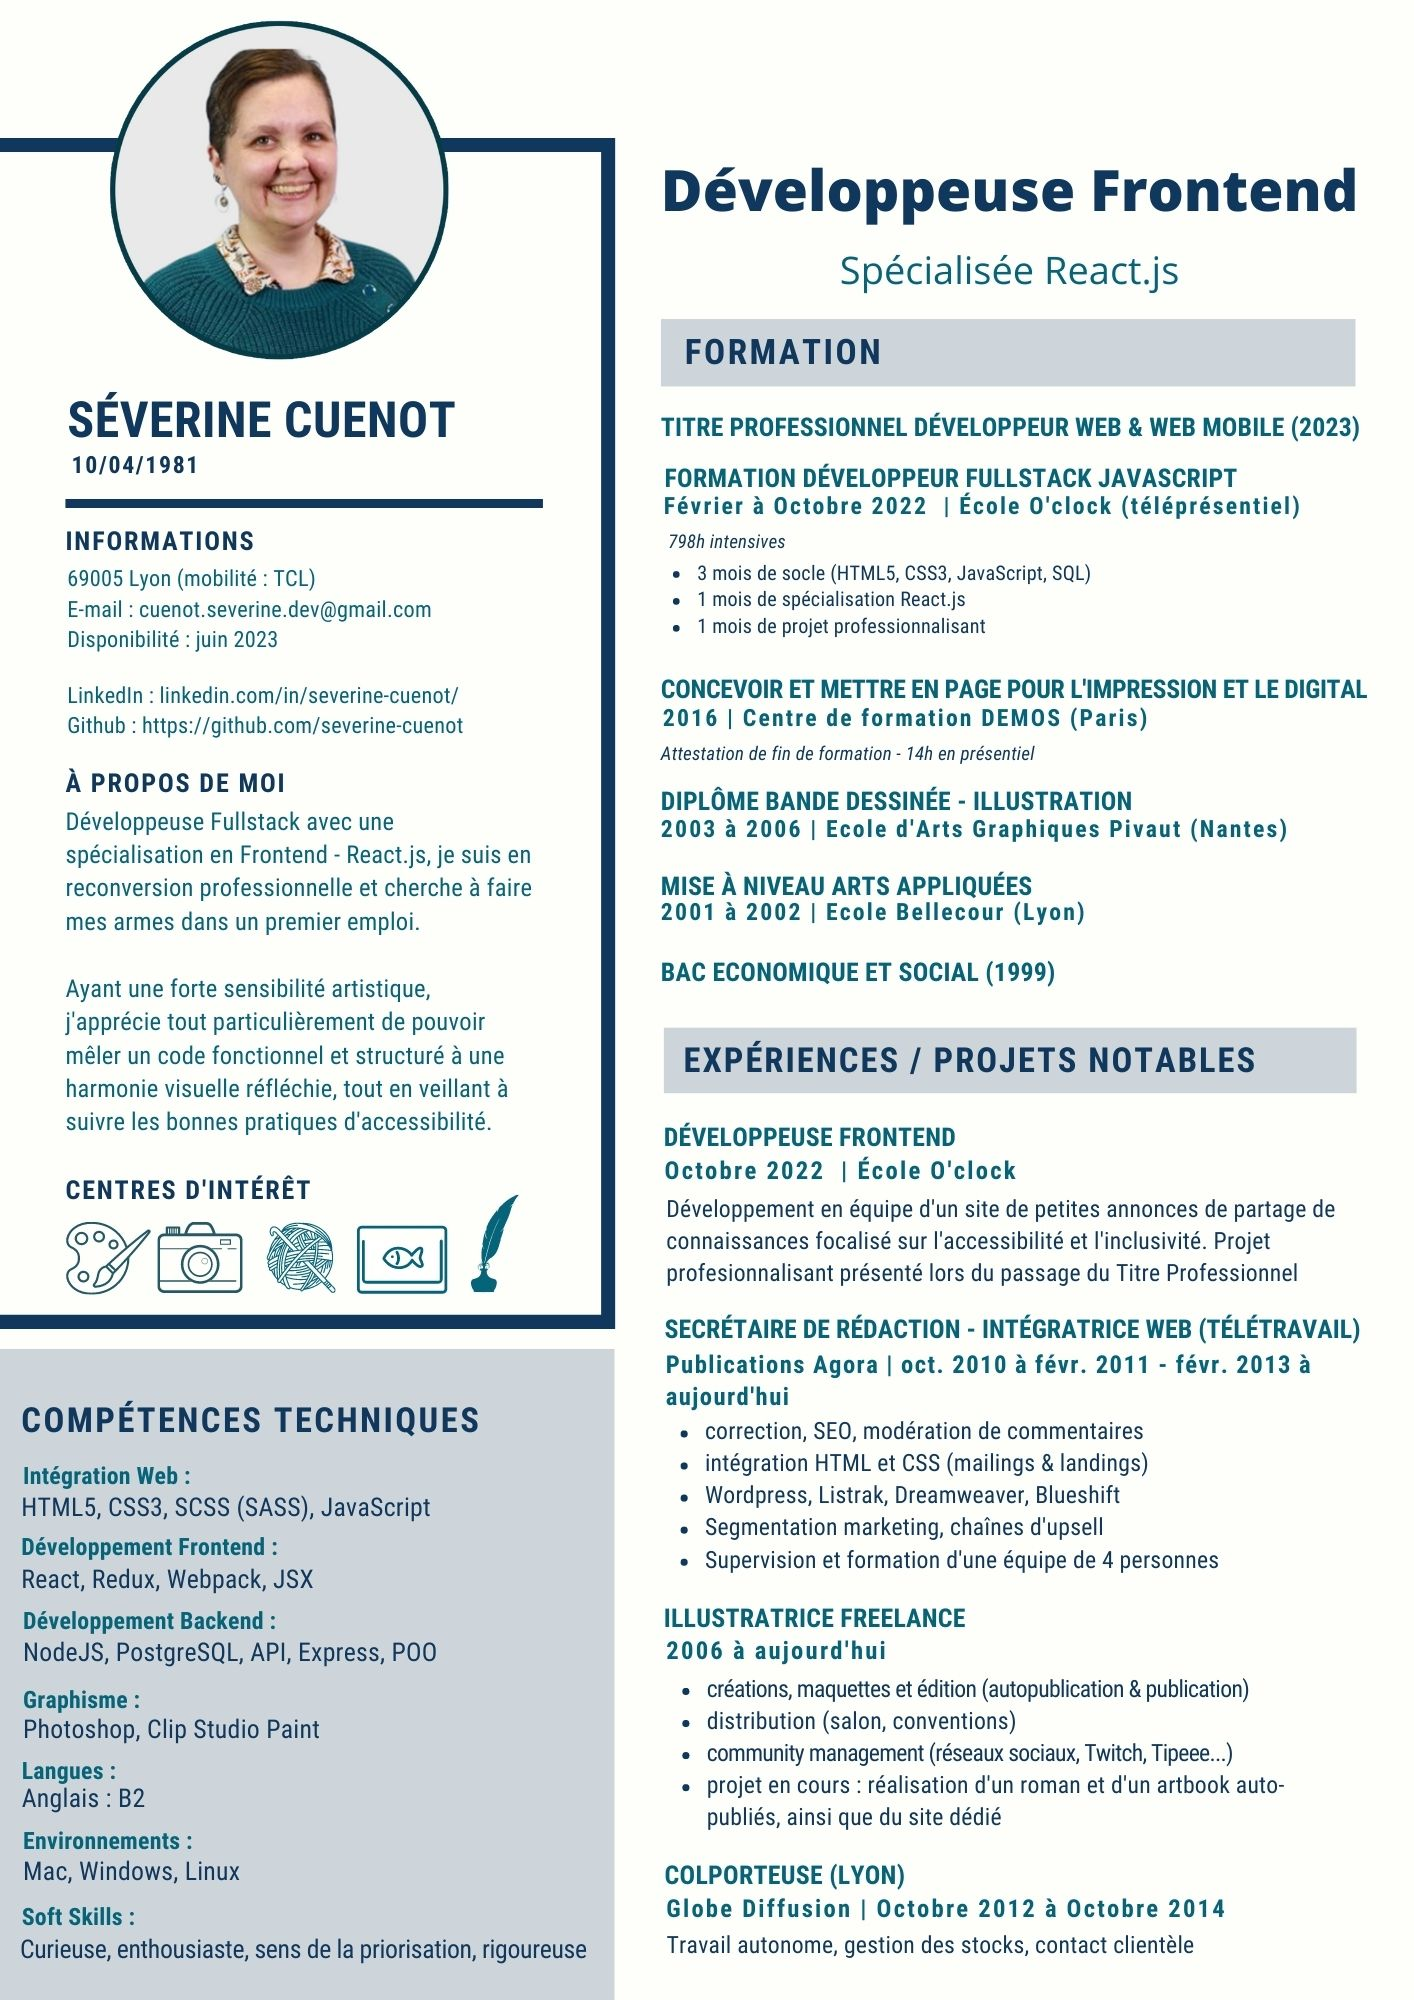
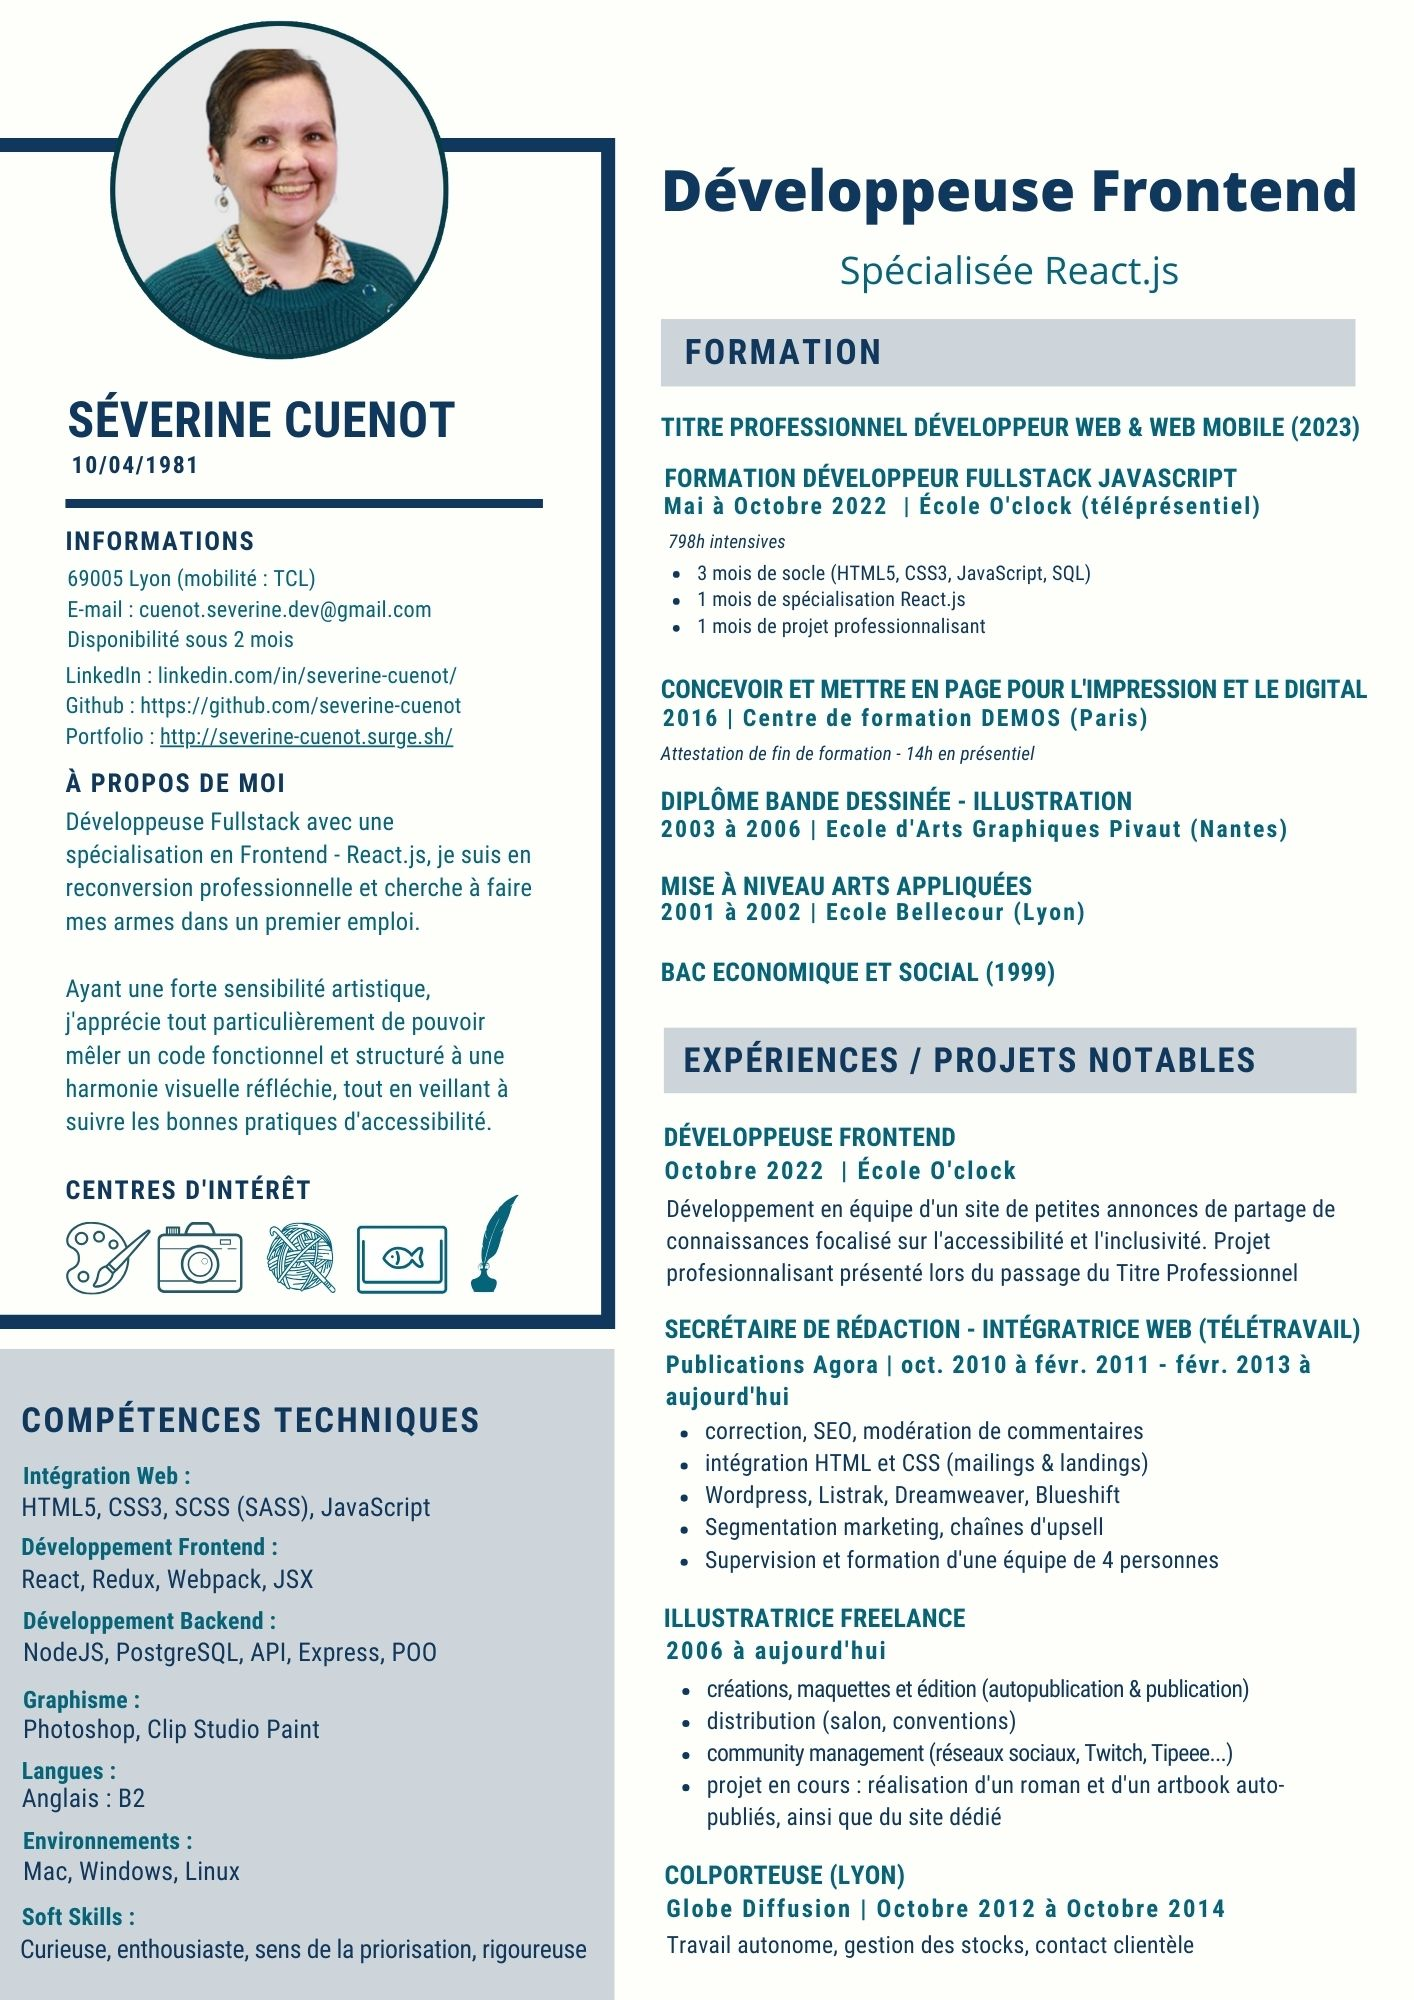
changed email

Changed region(s): [[0.0311, 0.31, 0.3423, 0.372], [0.4668, 0.248, 0.9335, 0.279]]

diff --git a/src/pages/contact/index.js b/src/pages/contact/index.js
@@ -5,7 +5,7 @@ import './style.scss';
 
 function Contact() {
   // hashing email in many parts to avoid spam robots, with the help of Safe Brand website
-  const emailPart1 = 'severine.cuenot.dev';
+  const emailPart1 = 'cuenot.severine.dev';
   const emailPart2 = 2 ** 6;
   const emailPart3 = String.fromCharCode(emailPart2);
   const emailPart4 = 'gmail.com';
